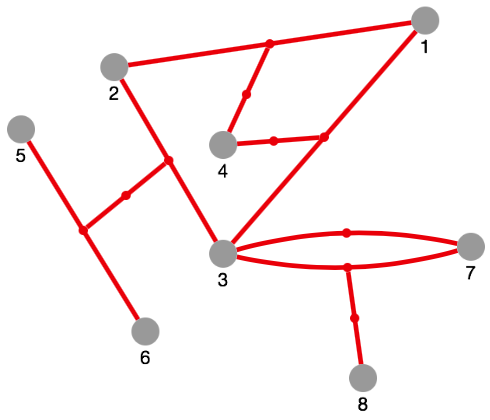
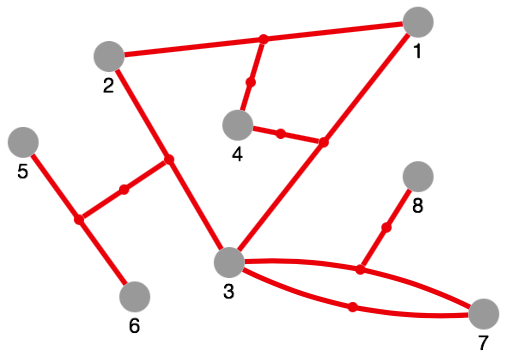
API: drop `edgeSelector` config
Further change:

* `edge.auxNode()` returns `undefined` if the edge has no aux node. Does not throw.

Changed region(s): [[0.0, 0.0, 1.0, 0.9778]]

diff --git a/dist/cytoscape-edge-connections.min.js b/dist/cytoscape-edge-connections.min.js
@@ -1,1 +1,1 @@
-!function(e,o){"object"==typeof exports&&"object"==typeof module?module.exports=o():"function"==typeof define&&define.amd?define([],o):"object"==typeof exports?exports.cytoscapeEdgeConnections=o():e.cytoscapeEdgeConnections=o()}(window,function(){return function(e){var o={};function t(n){if(o[n])return o[n].exports;var r=o[n]={i:n,l:!1,exports:{}};return e[n].call(r.exports,r,r.exports,t),r.l=!0,r.exports}return t.m=e,t.c=o,t.d=function(e,o,n){t.o(e,o)||Object.defineProperty(e,o,{enumerable:!0,get:n})},t.r=function(e){"undefined"!=typeof Symbol&&Symbol.toStringTag&&Object.defineProperty(e,Symbol.toStringTag,{value:"Module"}),Object.defineProperty(e,"__esModule",{value:!0})},t.t=function(e,o){if(1&o&&(e=t(e)),8&o)return e;if(4&o&&"object"==typeof e&&e&&e.__esModule)return e;var n=Object.create(null);if(t.r(n),Object.defineProperty(n,"default",{enumerable:!0,value:e}),2&o&&"string"!=typeof e)for(var r in e)t.d(n,r,function(o){return e[o]}.bind(null,r));return n},t.n=function(e){var o=e&&e.__esModule?function(){return e.default}:function(){return e};return t.d(o,"a",o),o},t.o=function(e,o){return Object.prototype.hasOwnProperty.call(e,o)},t.p="",t(t.s=0)}([function(e,o){let t,n,r;function d(e){e("core","edgeConnections",i),e("core","addEdge",a),e("core","addEdges",c),e("collection","auxNode",f),e("collection","isAuxNode",p),e("collection","edgeId",g)}function i(e={}){var o;t=e.edgeSelector||"edge",n=e.auxNodeData||(e=>({})),r=e.maxPasses||10,(o=this).on("position","node",e=>(function(e){e.connectedEdges(t).forEach(e=>{const o=e.midpoint();(function(e){return!(Number.isNaN(e.x)||Number.isNaN(e.y))})(o)&&e.auxNode().unlock().position(o).lock()})})(e.target)),o.on("remove",t,e=>(function(e){e.auxNode().remove()})(e.target))}function a(e){u(e,this)||console.warn("Edge can't be added to graph as a player does not exist",e)}function c(e){let o=0;do{if(e=e.filter(e=>!u(e,this)),++o===r)throw Error(`too many add-edges passes (limit is ${r})`)}while(e.length);console.log(`This graph needed ${o} add-edges passes`)}function u(e,o){if(s(e,"source",o)&&s(e,"target",o))return function(e,o){const t=o.source().position(),r=o.target().position(),d=e.add({position:{x:(t.x+r.x)/2,y:(t.y+r.y)/2},data:{edgeId:(i=o,Number(i.id())),...n(o)}}).lock();var i;o.data("auxNodeId",d.id())}(o,o.add(e)),!0}function s(e,o,t){const n=e.data[o],r=t.getElementById(n.toString());return!r.empty()&&(r.isEdge()&&(e.data[o]=l(r)),!0)}function f(){const e=this;if(!e||!e.isEdge())throw console.warn("auxNode() is called on",e),Error("auxNode() is not called on an edge");const o=e.cy().getElementById(l(e));if(1!==o.size())throw console.warn("No aux node for edge",e),Error(`no aux node for edge ${e.id()}`);return o}function l(e){const o=e.data("auxNodeId");if(!o)throw console.warn('Edge has no "auxNodeId" data',e),Error(`edge ${e.id()} has no "auxNodeId" data`);return o}function p(){return void 0!==this.edgeId()}function g(){const e=this;if(!e||!e.isNode())throw console.warn("edgeId() is called on",e),Error("edgeId() is not called on a node");return e.data("edgeId")}"undefined"!=typeof cytoscape&&d(cytoscape),e.exports=d}])});
+!function(e,o){"object"==typeof exports&&"object"==typeof module?module.exports=o():"function"==typeof define&&define.amd?define([],o):"object"==typeof exports?exports.cytoscapeEdgeConnections=o():e.cytoscapeEdgeConnections=o()}(window,function(){return function(e){var o={};function n(t){if(o[t])return o[t].exports;var r=o[t]={i:t,l:!1,exports:{}};return e[t].call(r.exports,r,r.exports,n),r.l=!0,r.exports}return n.m=e,n.c=o,n.d=function(e,o,t){n.o(e,o)||Object.defineProperty(e,o,{enumerable:!0,get:t})},n.r=function(e){"undefined"!=typeof Symbol&&Symbol.toStringTag&&Object.defineProperty(e,Symbol.toStringTag,{value:"Module"}),Object.defineProperty(e,"__esModule",{value:!0})},n.t=function(e,o){if(1&o&&(e=n(e)),8&o)return e;if(4&o&&"object"==typeof e&&e&&e.__esModule)return e;var t=Object.create(null);if(n.r(t),Object.defineProperty(t,"default",{enumerable:!0,value:e}),2&o&&"string"!=typeof e)for(var r in e)n.d(t,r,function(o){return e[o]}.bind(null,r));return t},n.n=function(e){var o=e&&e.__esModule?function(){return e.default}:function(){return e};return n.d(o,"a",o),o},n.o=function(e,o){return Object.prototype.hasOwnProperty.call(e,o)},n.p="",n(n.s=0)}([function(e,o){let n,t;function r(e){e("core","edgeConnections",d),e("core","addEdge",i),e("core","addEdges",a),e("collection","auxNode",s),e("collection","isAuxNode",l),e("collection","edgeId",p)}function d(e={}){var o;n=e.auxNodeData||(e=>({})),t=e.maxPasses||10,(o=this).on("position","node",e=>(function(e){e.connectedEdges().forEach(e=>{const o=e.auxNode();if(o){const n=e.midpoint();(function(e){return!(Number.isNaN(e.x)||Number.isNaN(e.y))})(n)&&o.unlock().position(n).lock()}})})(e.target)),o.on("remove","edge",e=>(function(e){const o=e.auxNode();o&&o.remove()})(e.target))}function i(e){c(e,this)||console.warn("Edge can't be added to graph as a player does not exist",e)}function a(e){let o=0;do{if(e=e.filter(e=>!c(e,this)),++o===t)throw Error(`too many add-edges passes (limit is ${t})`)}while(e.length);console.log(`This graph needed ${o} add-edges passes`)}function c(e,o){if(u(e,"source",o)&&u(e,"target",o))return function(e,o){const t=o.source().position(),r=o.target().position(),d=e.add({position:{x:(t.x+r.x)/2,y:(t.y+r.y)/2},data:{edgeId:(i=o,Number(i.id())),...n(o)}}).lock();var i;o.data("auxNodeId",d.id())}(o,o.add(e)),!0}function u(e,o,n){const t=e.data[o],r=n.getElementById(t.toString());return!r.empty()&&(r.isEdge()&&(e.data[o]=function(e){const o=f(e);if(!o)throw console.warn('Edge has no "auxNodeId" data',e),Error(`edge ${e.id()} has no "auxNodeId" data`);return o}(r)),!0)}function s(){const e=this;if(!e||!e.isEdge())throw console.warn("auxNode() is called on",e),Error("auxNode() is not called on an edge");const o=f(e);if(!o)return;const n=e.cy().getElementById(o);if(n.empty())throw console.warn("Data inconsistency: aux node of edge",e,"not in graph, auxNodeId",o),Error(`data inconsistency: aux node of edge ${e.id()} not in graph`);return n}function f(e){return e.data("auxNodeId")}function l(){return void 0!==this.edgeId()}function p(){const e=this;if(!e||!e.isNode())throw console.warn("edgeId() is called on",e),Error("edgeId() is not called on a node");return e.data("edgeId")}"undefined"!=typeof cytoscape&&r(cytoscape),e.exports=r}])});

diff --git a/src/index.js b/src/index.js
@@ -1,5 +1,4 @@
 // config
-let EDGE_SELECTOR
 let AUX_NODE_DATA
 let MAX_PASSES
 
@@ -21,7 +20,6 @@ module.exports = register
 
 function edgeConnections (config = {}) {
   // config
-  EDGE_SELECTOR = config.edgeSelector || 'edge'
   AUX_NODE_DATA = config.auxNodeData  || (edge => ({}))
   MAX_PASSES    = config.maxPasses    || 10
   // Note: eventHandlers operates on config
@@ -78,7 +76,7 @@ function resolve (edge, end, cy) {
     return false
   }
   if (ele.isEdge()) {
-    edge.data[end] = auxNodeId(ele)
+    edge.data[end] = _auxNodeId(ele)
   }
   return true
 }
@@ -111,29 +109,38 @@ function eventHandlers (cy) {
   // So the position event selector must capture both aux nodes and regular nodes.
   // FIXME: also the edge handler node is captured, but should not be a problem.
   cy.on('position', 'node', e => repositionAuxNodes(e.target))
-  cy.on('remove', EDGE_SELECTOR, e => removeAuxNode(e.target))    // remove aux node when removing edge
+  cy.on('remove', 'edge', e => removeAuxNode(e.target))    // remove aux node when removing edge
 }
 
 function repositionAuxNodes (node) {
-  node.connectedEdges(EDGE_SELECTOR).forEach(edge => {
-    const midpoint = edge.midpoint()
-    // Note: if Cytoscape can't draw the edge (a warning appears in the browser console) its midpoint is undefined
-    // (x and y are NaN). If a node is positioned to such an invalid position its canvas representation becomes corrupt
-    // (drawImage() throws "InvalidStateError: The object is in an invalid state" then).
-    if (isValidPos(midpoint)) {
-      edge.auxNode().unlock().position(midpoint).lock()
+  node.connectedEdges().forEach(edge => {
+    const auxNode = edge.auxNode()
+    if (auxNode) {
+      const midpoint = edge.midpoint()
+      // Note: if Cytoscape can't draw the edge (a warning appears in the browser console) its midpoint is undefined
+      // (x and y are NaN). If a node is positioned to such an invalid position its canvas representation becomes
+      // corrupt (drawImage() throws "InvalidStateError: The object is in an invalid state" then).
+      if (isValidPos(midpoint)) {
+        auxNode.unlock().position(midpoint).lock()
+      }
     }
   })
 }
 
 function removeAuxNode (edge) {
-  edge.auxNode().remove()
+  const auxNode = edge.auxNode()
+  auxNode && auxNode.remove()
 }
 
 /**
+ * Returns the edge's aux node.
+ *
  * Prerequisite: "this" refers to an edge.
  *
- * @return  the aux node (a one-element Cytoscape collection) that represents the given edge.
+ * @throws  Error   if called on an object that is not an edge.
+ * @throws  Error   in case of data inconsistency (edge has "auxNodeId" data but the referred node is not in the graph).
+ *
+ * @return  the edge's aux node (one-element Cytoscape collection); `undefined` if the edge has no aux node.
  */
 function auxNode () {
   const edge = this
@@ -141,24 +148,37 @@ function auxNode () {
     console.warn('auxNode() is called on', edge)
     throw Error('auxNode() is not called on an edge')
   }
-  const auxNode = edge.cy().getElementById(auxNodeId(edge))
-  if (auxNode.size() !== 1) {
-    console.warn('No aux node for edge', edge)
-    throw Error(`no aux node for edge ${edge.id()}`)
+  const auxNodeId = _auxNodeIdIfAvailable(edge)
+  if (!auxNodeId) {
+    return
+  }
+  const auxNode = edge.cy().getElementById(auxNodeId)
+  if (auxNode.empty()) {
+    console.warn('Data inconsistency: aux node of edge', edge, 'not in graph, auxNodeId', auxNodeId)
+    throw Error(`data inconsistency: aux node of edge ${edge.id()} not in graph`)
   }
   return auxNode
 }
 
 /**
- * @return  the ID (string) of the aux node of the given edge.
+ * @throws  Error   if the edge has no "auxNodeId" data.
+ *
+ * @return  the aux node ID (string) of the given edge.
  */
-function auxNodeId (edge) {
-  const auxNodeId = edge.data('auxNodeId')
+function _auxNodeId (edge) {
+  const auxNodeId = _auxNodeIdIfAvailable(edge)
   if (!auxNodeId) {
     console.warn('Edge has no "auxNodeId" data', edge)
     throw Error(`edge ${edge.id()} has no "auxNodeId" data`)
   }
   return auxNodeId
+}
+
+/**
+ * @return  the aux node ID (string) of the given edge; `undefined` if the edge has no "auxNodeId" data.
+ */
+function _auxNodeIdIfAvailable (edge) {
+  return edge.data('auxNodeId')
 }
 
 /**
@@ -171,10 +191,13 @@ function isAuxNode () {
 }
 
 /**
+ * Returns the aux node's edge ID.
+ *
  * Prerequisite: "this" refers to a node.
  *
- * @return  the ID of the edge represented by this aux node.
- *          Returns `undefined` if this is not an aux node (TODO: throw instead?).
+ * @throws  Error   if called on an object that is not a node.
+ *
+ * @return  the aux node's edge ID; `undefined` if this is not an aux node.
  */
 function edgeId () {
   const node = this

diff --git a/index.html b/index.html
@@ -52,14 +52,14 @@
           ],
           elements: {
             nodes: [
-              {data: {id: 1}, position: {x: 230, y:  50}},
+              {data: {id: 1}, position: {x: 210, y:  60}},
               {data: {id: 2}, position: {x:  30, y:  80}},
               {data: {id: 3}, position: {x: 100, y: 200}},
-              {data: {id: 4}, position: {x: 100, y: 130}},
-              {data: {id: 5}, position: {x: -30, y: 120}},
-              {data: {id: 6}, position: {x:  50, y: 250}},
-              {data: {id: 7}, position: {x: 260, y: 200}},
-              {data: {id: 8}, position: {x: 190, y: 280}}
+              {data: {id: 4}, position: {x: 105, y: 120}},
+              {data: {id: 5}, position: {x: -20, y: 130}},
+              {data: {id: 6}, position: {x:  45, y: 220}},
+              {data: {id: 7}, position: {x: 250, y: 230}},
+              {data: {id: 8}, position: {x: 210, y: 150}}
             ]
           },
           layout: {
@@ -77,7 +77,7 @@
           {data: {id: 412, source:   4, target: 12}},
           {data: {id: 413, source:   4, target: 13}},
           {data: {id: 500, source:  23, target: 56}},
-          {data: {id: 837, source: 371, target:  8}}
+          {data: {id: 837, source: 370, target:  8}}
         ])
       });
     </script>

diff --git a/README.md b/README.md
@@ -75,7 +75,6 @@ The possible config options are as follows:
 
 | Config option  | Description | Default |
 | -------------  | ----------- | ------- |
-| `edgeSelector` | If the graph contains edges which don't have an aux node specify a selector which selects all edges which *have* an aux node. | `'edge'` |
 | `auxNodeData`  | A function that receives an edge and returns a "data" object to be used when creating that edge's aux node. Use this option to enrich aux nodes by data, e.g. for styling. | `edge => ({})` |
 | `maxPasses`    |             | `10`           |
 
@@ -84,17 +83,17 @@ The possible config options are as follows:
 
 The extension adds 2 core and 3 collection methods:
 
-* `cy.addEdge(edge)` adds an edge to the graph
-* `cy.addEdges(edges)` adds all edges of an array to the graph
-* `edge.auxNode()` returns an edge's aux node
-* `node.isAuxNode()` returns `true` if a node is an aux node, `false` otherwise
-* `node.edgeId()` returns the ID of the edge represented by an aux node; `undefined` if the node is not an aux node
+* `cy.addEdge(edge)` adds the edge to the graph; `source` and `target` can refer to another edge
+* `cy.addEdges(edges)` adds all the edges of an array to the graph
+* `edge.auxNode()` returns the edge's aux node; `undefined` if the edge has no aux node
+* `node.isAuxNode()` returns `true` if the node is an aux node, `false` otherwise
+* `node.edgeId()` returns the aux node's edge ID; `undefined` if the node is not an aux node
 
 The `addEdge(s)` method accepts usual Cytoscape edge objects (plain JS objects) but with the particularity that the `source` and `target` data can refer to another edge.
 
 **Important:** in general use only the `addEdge(s)` method to add edges to the graph. Don't add edges declaratively (when calling the Cytoscape constructor) or by calling `cy.add()`. Only then your edges will get an aux node, and thus are ready for being connected to other edges.
 
-You still can have edges without an aux node in your graph (by adding declaratively or by `cy.add()`) but in this case you have to specify an edge selector (see `edgeSelector` config option above).
+You still can have edges without an aux node in your graph (by adding declaratively or by `cy.add()`).
 
 ## Build
 
